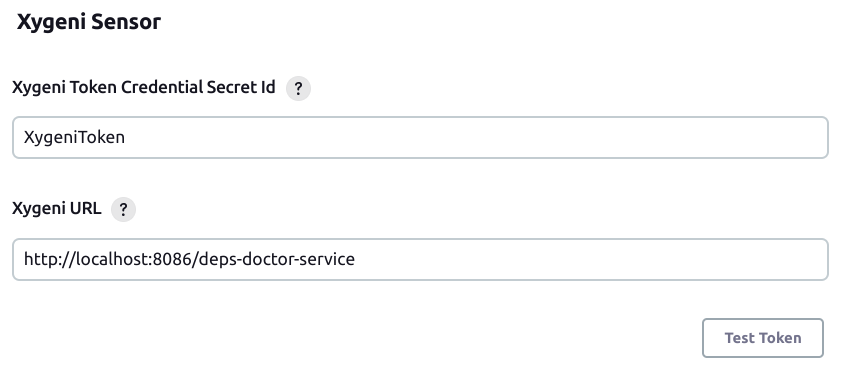
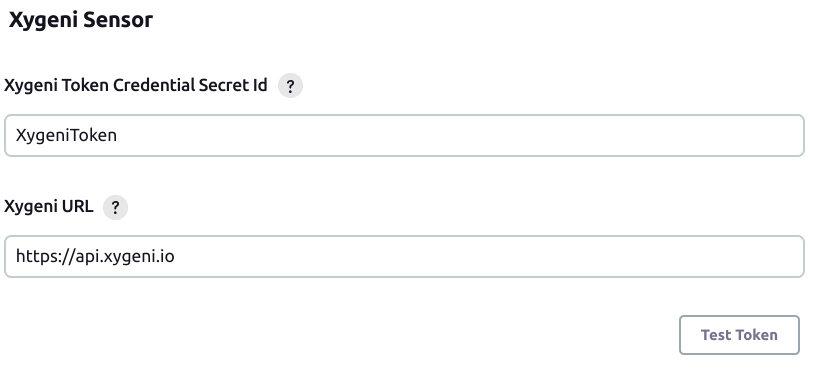
Fix configuration image at readme

diff --git a/README.md b/README.md
@@ -57,7 +57,7 @@ Get in touch today! [Book a demo](https://xygeni.io/book-a-demo?utm_source=jenki
 ### 2. Configure Xygeni Sensor plugin settings 
 - In Jenkins, navigate to `Manage Jenkins > Configure System > Xigeni Sensor`,
     * Set the `Xygeni Token Credential ID` (generated above).
-    * Set the `Xygeni API Url`.
+    * Set the `Xygeni API Url` (https://api.xygeni.io).
     * Optionally click the `TestToken` button to check url connection and token validity.
     * Click the `Save` button. 
     ![Xygeni Configuration](docs/images/xygeni-config.png)
